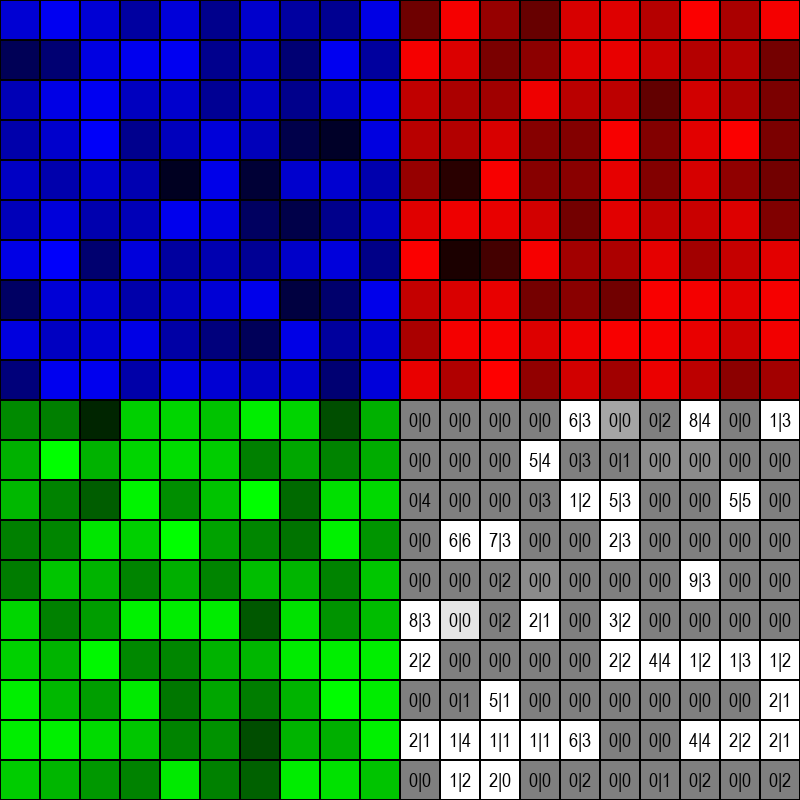
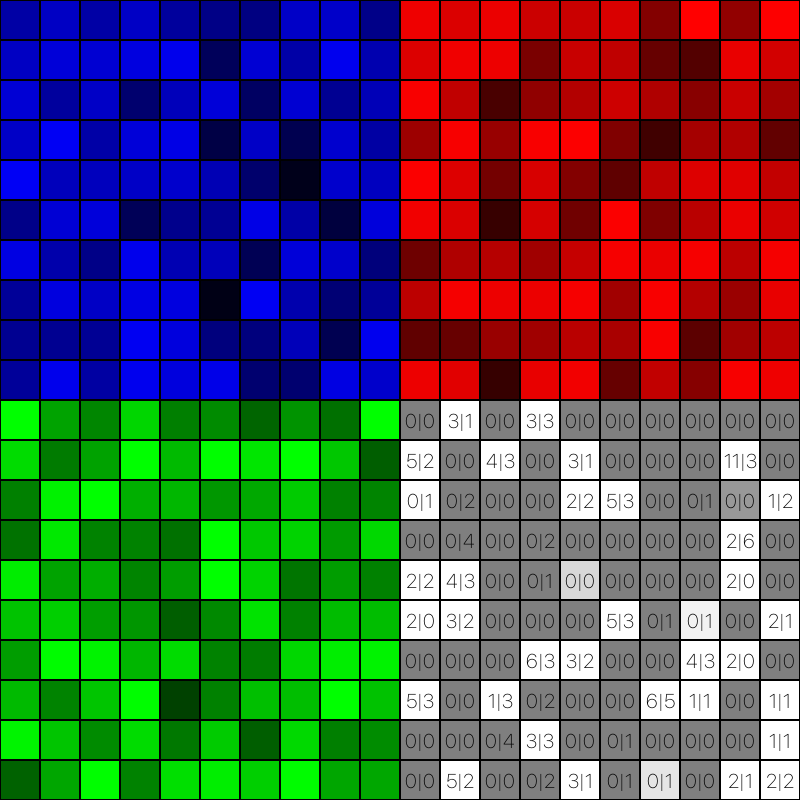
Update documentation and externalise some settings

diff --git a/grid.py b/grid.py
@@ -13,8 +13,11 @@ class Tile:
         self.y_coordinate_in_grid = y_coordinate_in_grid
 
         self.pheromone = 0.0
-        self.grasshoppers_p = abs(randint(-2, 2))
-        self.grasshoppers_NOT_p = abs(randint(-2, 2))
+        self.grasshoppers_p = abs(randint(
+            SimulationParameters.MIN_GRASSHOPPERS_PER_CELL, SimulationParameters.MAX_GRASSHOPPERS_PER_CELL))
+        self.grasshoppers_NOT_p = abs(randint(
+            SimulationParameters.MIN_GRASSHOPPERS_PER_CELL, SimulationParameters.MAX_GRASSHOPPERS_PER_CELL))
+
         self.temperature = gauss_to_color(192, 64)
         self.resources = gauss_to_color(192, 64)
         self.humidity = gauss_to_color(192, 64)
@@ -40,7 +43,8 @@ class Tile:
             self.temperature += randint(-t_change, t_change)
 
     def _update_resources(self):
-        self.resources = max(0, self.resources - ceil((self.grasshoppers_p + self.grasshoppers_NOT_p) / 5))
+        self.resources = max(
+            0, self.resources - ceil((self.grasshoppers_p + self.grasshoppers_NOT_p) / 5))
         if random() > 2/3:
             self.resources = min(255, self.resources + 1)
 
@@ -138,7 +142,8 @@ class Grid:
                     max_ph = 0.0
                     for x in range(x_min_left, x_min_right + 1):
                         for y in range(y_min_top, y_min_bot + 1):
-                            tile_xy = (tile.x_coordinate_in_grid + x, tile.y_coordinate_in_grid + y)
+                            tile_xy = (tile.x_coordinate_in_grid + x,
+                                       tile.y_coordinate_in_grid + y)
                             # avoid auto selecting with the and
                             if self.__getitem__(tile_xy).pheromone > max_ph and tile_xy != (
                                     tile.x_coordinate_in_grid, tile.y_coordinate_in_grid):
@@ -156,11 +161,13 @@ class Grid:
                         if max_ph == 0.0:
                             for e in range(tile.grasshoppers_p):
                                 p_preferred = (tile.x_coordinate_in_grid + randint(x_min_left, x_min_right),
-                                             tile.y_coordinate_in_grid + randint(y_min_top, y_min_bot))
+                                               tile.y_coordinate_in_grid + randint(y_min_top, y_min_bot))
                                 tile.grasshoppers_p -= 1
-                                self.__getitem__(p_preferred).grasshoppers_p += 1
+                                self.__getitem__(
+                                    p_preferred).grasshoppers_p += 1
                         elif preferred != (-1, -1):  # and max_ph / 3 * 2 > random()
-                            self.__getitem__(preferred).grasshoppers_p += tile.grasshoppers_p
+                            self.__getitem__(
+                                preferred).grasshoppers_p += tile.grasshoppers_p
                             tile.grasshoppers_p = 0
 
                     if tile.grasshoppers_NOT_p > 0:

diff --git a/main.py b/main.py
@@ -7,29 +7,31 @@ from time import sleep
 from util import check_user_exit
 import os
 
+
 def main():
     grid = Grid(Settings.WINDOW_WIDTH // 2, Settings.WINDOW_HEIGHT // 2)
     simulation = Simulation(Settings.WINDOW_WIDTH * Settings.BLOCKSIZE,
                             Settings.WINDOW_HEIGHT * Settings.BLOCKSIZE,
                             grid)
-    f = open("data.csv", "w")
-    i = 0
-    grasshoppers = "1;1"
-    if not os.path.exists("images") and Settings.SAVE_IMAGES:
-        os.mkdir("images")
-    try:
-        while grasshoppers != "0;0":
-            if Settings.SAVE_IMAGES:
-                simulation.save_image(i)
-                i += 1
-            grasshoppers = simulation.tick()
-            if Settings.SAVE_DATA:
-                f.write(f'{grasshoppers}\n')
-            check_user_exit()
-            sleep(Settings.SECONDS_BETWEEN_UPDATES)
-    except:
-        pass
+    with open("data.csv", "w") as f:
+        i = 0
+        grasshoppers = "1;1"
+        if not os.path.exists("images") and Settings.SAVE_IMAGES:
+            os.mkdir("images")
+        try:
+            while grasshoppers != "0;0":
+                if Settings.SAVE_IMAGES:
+                    simulation.save_image(i)
+                    i += 1
+                grasshoppers = simulation.tick()
+                if Settings.SAVE_DATA:
+                    f.write(f'{grasshoppers}\n')
+                check_user_exit()
+                sleep(Settings.SECONDS_BETWEEN_UPDATES)
+        except:
+            pass
     f.close()
+
 
 if __name__ == "__main__":
     main()

diff --git a/util.py b/util.py
@@ -6,6 +6,7 @@ from random import gauss
 
 import pygame
 
+
 def check_user_exit():
     """
     Quits pygame if the user closes the window
@@ -15,9 +16,10 @@ def check_user_exit():
             pygame.quit()
             sys.exit()
 
+
 def gauss_to_color(mu, sigma):
     """
-    Gaussian curve with mean 128 and standard deviation 64
+    Gaussian curve with mean 128 and standard deviation 64.
+    This is useful because RGB colors are in the range 0-255.
     """
     return min(255, max(0, int(gauss(mu, sigma))))
-

diff --git a/settings.py b/settings.py
@@ -11,9 +11,17 @@ class Settings:
     SAVE_IMAGES = True
     SAVE_DATA = True
 
+
 class SimulationParameters:
     """
     Settings potentially impacting on the simulation's results
     """
+
+    # How much temperature and humidity parameters change at each iteration
     HUMIDITY_CHANGE = 10
     TEMPERATURE_CHANGE = 5
+
+    # Minimum and maximum number of grasshoppers placed in each cell when the
+    # cell is initialized
+    MIN_GRASSHOPPERS_PER_CELL = 0
+    MAX_GRASSHOPPERS_PER_CELL = 2

diff --git a/README.md b/README.md
@@ -1,10 +1,34 @@
-# grasshopperSimulator
+# Grasshopper Simulator
 
-Grasshopper Simulator is a Python simulation made with pygame that emulates how grasshoppers with and without the ability to react to aggregation pheromones would live in a simulated environment.
+Grasshopper Simulator is a Python simulation made with [Pygame](https://www.pygame.org/) that emulates how grasshoppers with and without the ability to react to aggregation pheromones would live in a simulated environment.
 
-First of all, we divided the area into a grid where each cell has three attributes: resources (green), humidity (blue), and temperature (red). The brighter the color, the more the conditions are favorable for the grasshoppers. The grasshoppers will consume a fixed quantity of resources from the cell they are in each turn, while the humidity and the temperature will randomly get more or less favorable. If a grasshopper can receive and produce the aggregating pheromone and the condition of the cell is adequate, it will do so and all the nearby grasshoppers that are receptive will move toward the cell. Otherwise, they will randomly move in the adjacent cells until they find one with good enough conditions. Every time a grasshopper moves it will have a certain probability of dying that is determined by the resources present in the cell and by the "predators" that will act more likely against smaller groups of grasshoppers. 
+Image of the simulation at runtime:
 
-![Screenshot](/images/screenshot26.png "Screenshot")
+<img src="screenshot26.png" width="50%"/>
 
+## Running the simulation
+First, install the dependencies:
+```bash
+pip3 install pygame
+```
+
+Open the terminal in the project's main folder and run `main.py`through the Python interpreter:
+```bash
+python3 main.py
+```
+
+Outputs, which can be enabled or disabled through `settings.py`, are saved in the `images` folder and as `data.csv`. Those are all located in the root directory of the project.
+
+## Simulation rules
+- The simulation area is divided into a grid.
+- Each cell corresponds to three attributes: attributes: resources (green), humidity (blue), and temperature (red). The brighter the color, the more the conditions are favorable for the grasshoppers.
+- The grasshoppers will consume a fixed amount of resources from the cell they are in each turn, while the humidity and the temperature will randomly get more or less favorable. 
+- If a grasshopper can receive and produce the aggregating pheromone and the condition of the cell is adequate, it will do so and all the nearby grasshoppers that are receptive will move toward the cell. Otherwise, they will randomly move in the adjacent cells until they find one with good enough conditions.
+-  Every time a grasshopper moves it will have a certain probability of dying that is determined by the resources present in the cell and by the "predators" that will act more likely against smaller groups of grasshoppers. 
+
+## How to read the plots
 The grid is shown four times, one for each resource, humidity, and temperature and one for the number of grasshoppers. The grasshopper's cells will acquire a whiter color when aggregation pheromones are active and in each cell are displayed on the left the aggregating grasshoppers and on the right the non-aggregating ones.
-The program, based on the parameters in settings, will also generate a CSV file containing the number of grasshoppers and an images folder containing screenshots of the situation for every tick.
+
+## Tweaking the simulation parameters
+You can alter the parameters of the simulation and its GUI in `settings.py`. 
+Please refer to `settings.py` for a description of what each parameter does.
